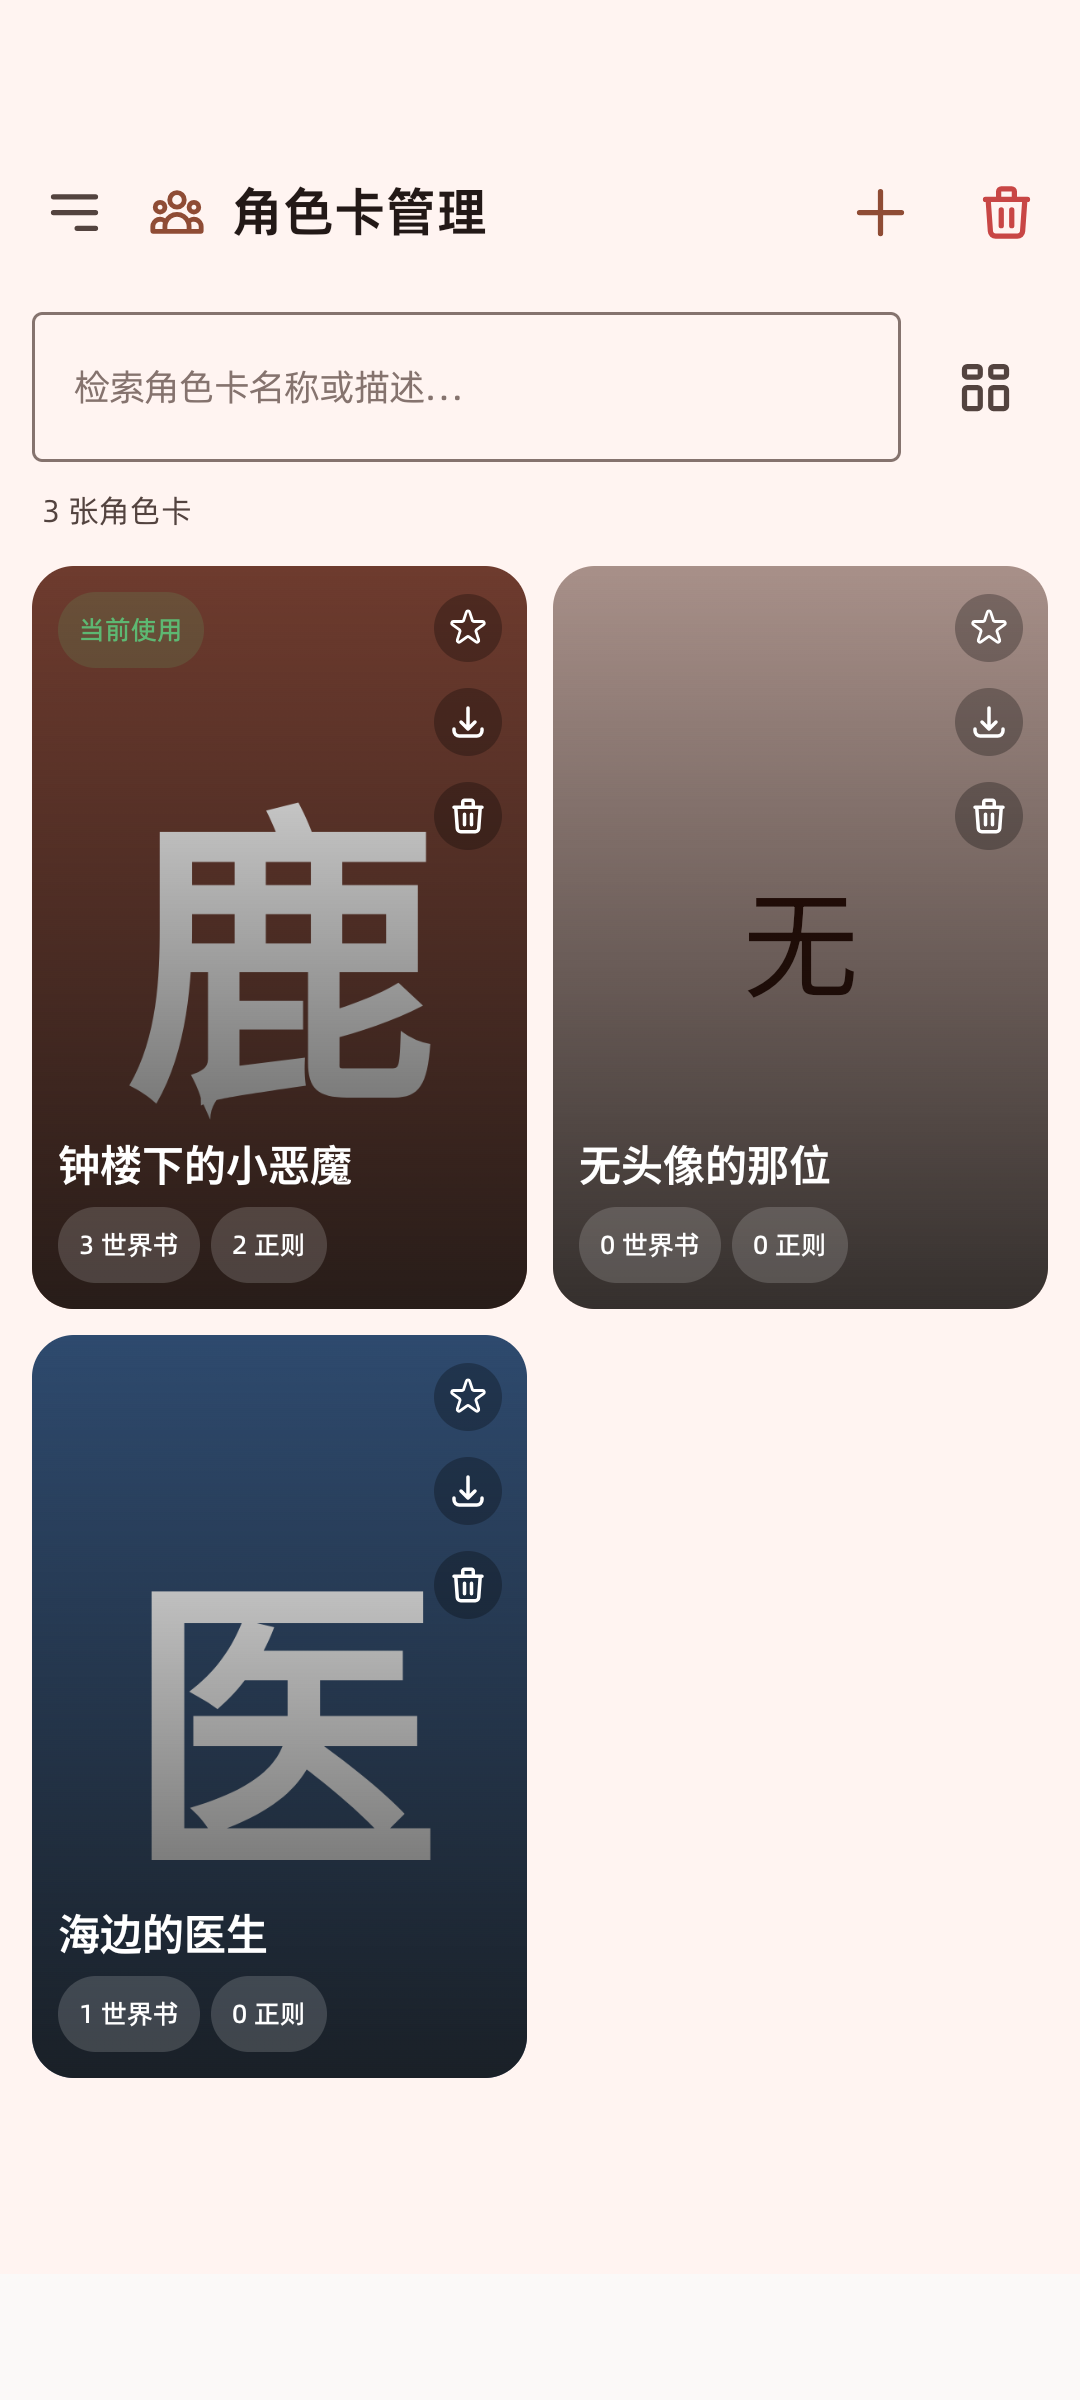
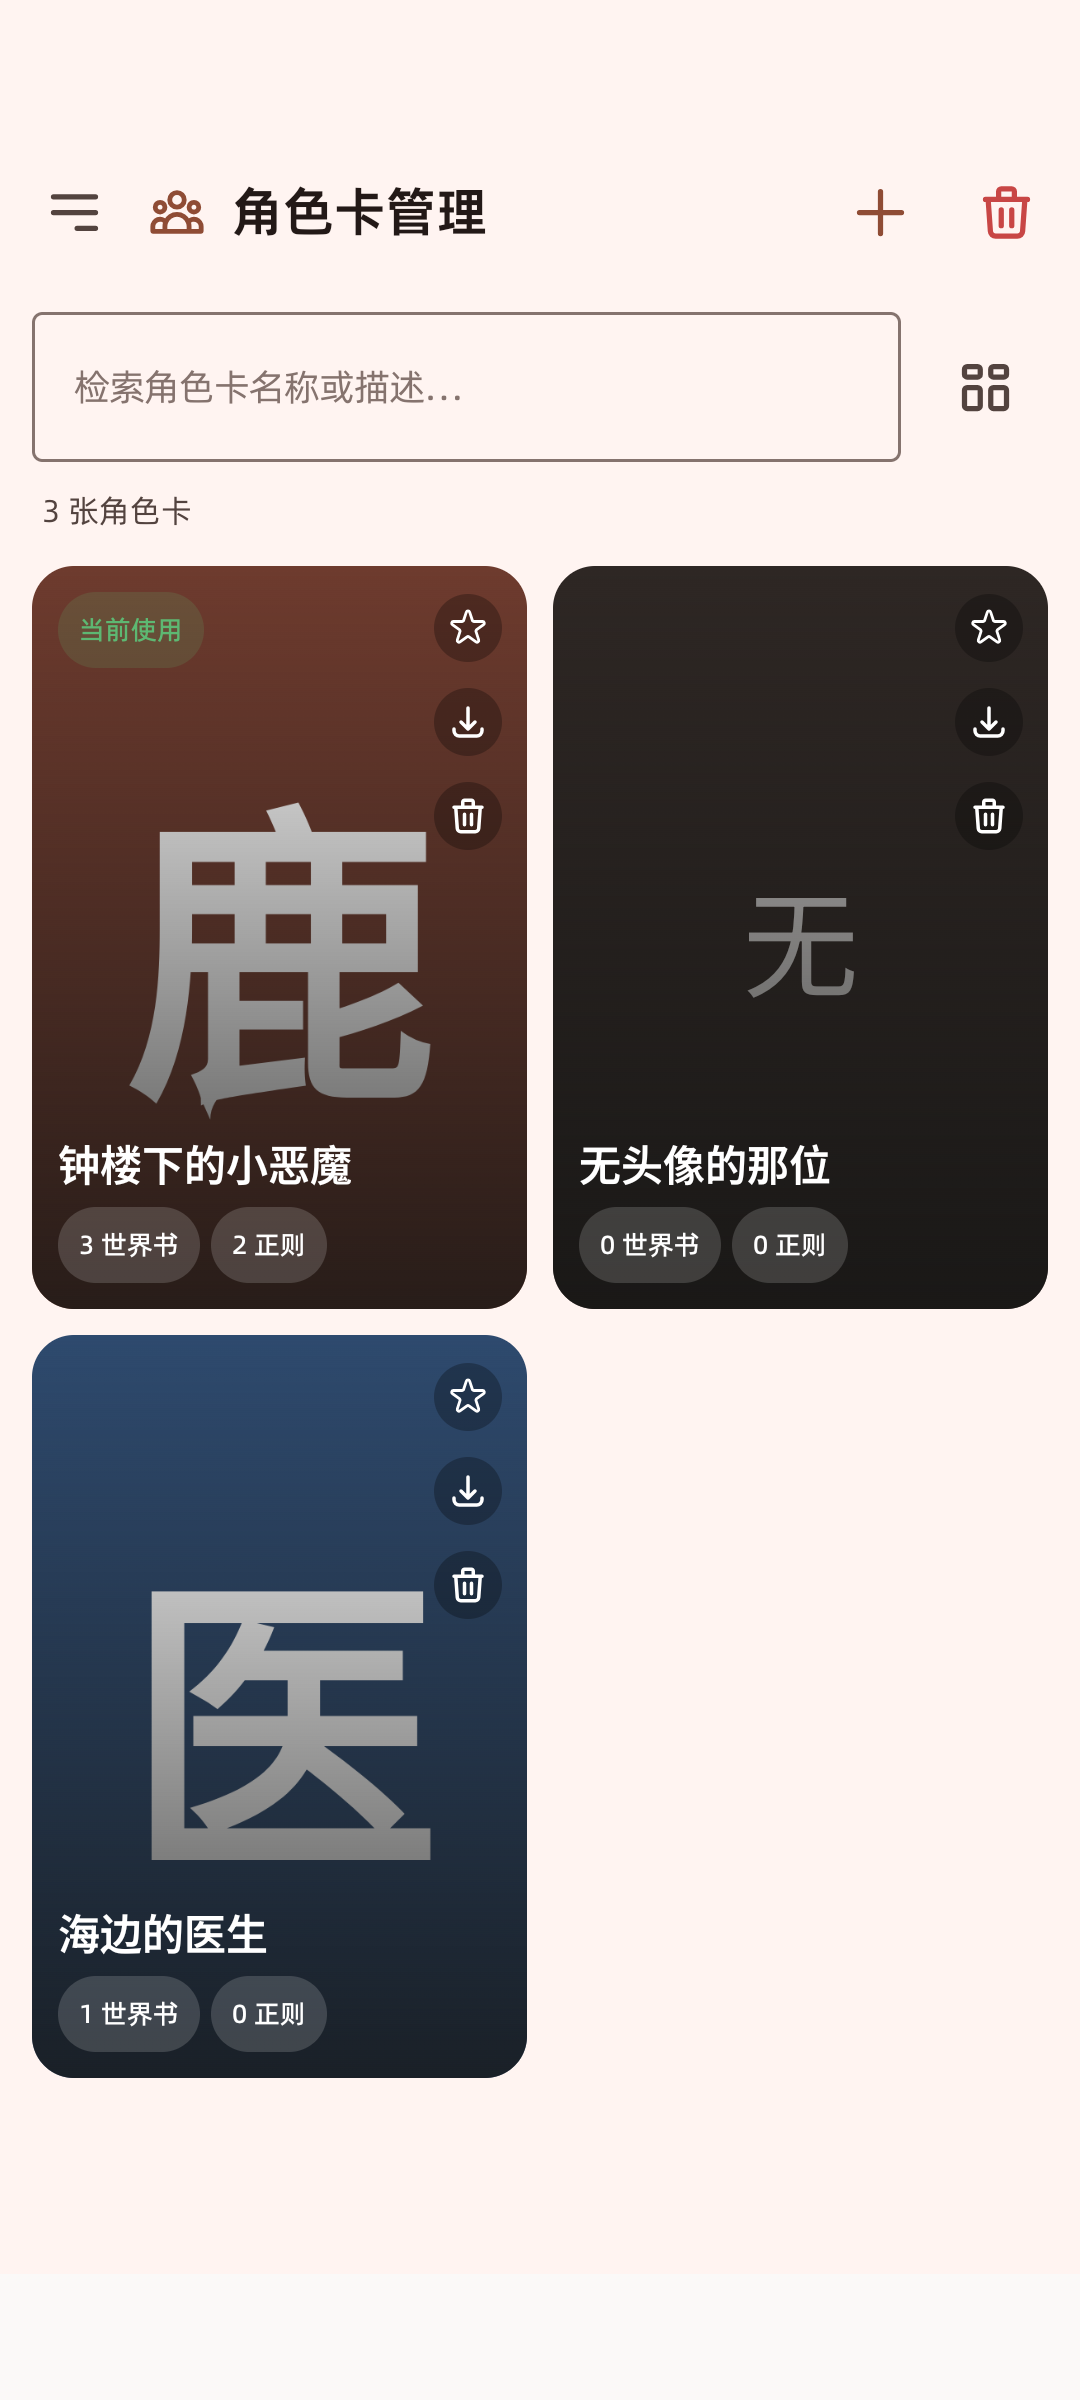
fix(ui): 清掉最后一处「图标占位」+ 角色卡降级底色按主题修正（含暗色留证）
- 删除 StaticPages 的 HeaderAction（不带点击的图标占位）——它已是全仓库最后一处，
  改完后「画出来但没接线」的控件在页面层清零（记忆/用量/角色三页的假件在前面三个 commit 已撤）。
- SessionsPage 修正一处被误合并的行（fontSize / color 挤到同一行）。
- 角色卡页降级底色改版：`primaryContainer` 在亮色主题是浅粉（白字看不见），
  第一版补 34% 黑纱在暗色主题下反而更脏；最终改用固定深暖中性色 #2E2724 + 72% 白首字
  ——深底浅字在亮/暗两套主题下表现一致（DESIGN-compose §34.5 记录了两版的过程）。
- 新增暗色留证 2 张（角色卡 77 / 用量 78）并逐张 read_image 审查：
  曲线分类色在暗色画布上仍可辨；卡片白字仍可读。

门禁：checkChat 全量 108 条仪器化 / 0 失败（5m16s），JVM 全量绿。

Changed region(s): [[0.4889, 0.2188, 0.9778, 0.5625]]

diff --git a/app/src/main/assets/ext/luzzy-changelog.js b/app/src/main/assets/ext/luzzy-changelog.js
@@ -417,6 +417,24 @@
     粒度切换真的换桶（24 → 7 → 4）、清空先验确认框拦住再验真清库；
   - **视觉留证**：新增 \`testing/Capture.kt\`（MediaStore 落 \`/sdcard/Download/luzzy-captures/\`，
     记忆页与用量页共用）与 \`UsageVisualCaptureTest\`，截图 4 张逐张 \`read_image\` 审查。
+- **角色卡页重建（v3.2，2026-09-15）**：同一条用户指令的第三页。旧版真源 = 上游
+  \`rp-hub-reference/index.html\` 的管理视图与 \`ui-components.js\` 的 \`CharacterCard\`，
+  设计落档 \`DESIGN-compose.md\` §34：
+  - **修掉三处硬伤**：① 每张卡都用**同一张固定立绘** \`vanio_card\` 当卡面、真头像缩成 26dp 小圆
+    （十张卡长得一模一样）→ 卡面 = **这张卡自己的头像**（铺满 + 自下而上黑渐变），无图或解码失败
+    回落首字 monogram；② 卡右上「导出 / 删除」是**不带点击的图标** → 真按钮（收藏 / 导出 / 删除）；
+    ③ 卡片**点了没反应** → 点卡 = 切当前角色并回到对话页；
+  - **新增 \`chat/CharacterCards.kt\`**：payload 派生（世界书 / 正则计数、收藏、描述）+ 搜索匹配 +
+    排序 + 收藏写回，9 条 JVM 单测；
+  - **\`LuzzyStore.deleteCharacter\` 级联删除**（角色 + 全部作用域的消息与两种记忆 + 分支，一个事务）——
+    只删角色行会留下永远读不到的孤儿行，且不报错；
+  - **\`TransferStore.exportCharacter\`** 单卡导出（与全量导出同格式、同 uuid，导回来是覆盖而非复制）；
+  - **\`AvatarLoader\` 解码分档**（卡面 512px / 列表小头像 192px）且**缓存键含目标尺寸**；
+  - **新增 4 枚图标**（Heroicons v1：view-grid / view-boards / star / check，MIT，同既有来源纪律）；
+  - **新增仪器化用例 5 条**：卡面用真图 + 计数徽标来自 payload、搜索按名称或描述真过滤、
+    收藏真写进 payload、点卡真切当前角色、删除走确认框并**级联**清掉会话 / 分支 / 记忆；
+  - **截图审查抓出并修**：无头像那张卡的白字对比度不够（monogram 底是浅色）→ 降级路径加 34% 黑纱；
+  - **如实登记未做**：角色卡编辑器、叠卡翻牌动画——**不放点了没反应的按钮**。
 
 **修复**
 - **上游式「整键优先」会丢掉整张角色卡**（迁移器实现时发现并修）：上游 \`dbGetWithLegacy\` 的

diff --git a/app/src/main/java/com/luzzymeow/luzzyrp/ui/pages/characters/CharactersPage.kt b/app/src/main/java/com/luzzymeow/luzzyrp/ui/pages/characters/CharactersPage.kt
@@ -450,21 +450,22 @@ private fun CharacterCover(card: CharacterCards.Row) {
         // 降级：首字 monogram。**这条路径必须真的走得到**——夹具里 2/3 的头像是 SVG
         // （BitmapFactory 解不了），所以它不是「理论上存在的兜底」。
         //
-        // 底色上再压一层黑纱：卡面上的名字是**白字**，而 monogram 底色是浅色（primaryContainer）。
-        // 没有这层纱时「无头像的那位」会被压在浅粉底上，白字几乎看不清
-        // （截图审查实测到：三张卡里唯独这一张对比度不够）。
+        // 底色用**固定的深暖中性色**而不是主题 role，理由有二：
+        // 1. 卡面名字与动作图标都是**白字**，底色必须恒为深色——用 `primaryContainer` 时
+        //    亮色主题是浅粉（白字看不见）、暗色主题是深棕（与真图卡糊成一片），两头都不对；
+        // 2. 深色底 + 浅色首字在亮/暗两套主题下**表现一致**，不需要按主题再分支。
+        // （第一版在浅底上补了一层 34% 黑纱，暗色下反而更脏——截图实测后改成这个方案。）
         Box(
-            Modifier.fillMaxSize().background(MaterialTheme.colorScheme.primaryContainer),
+            Modifier.fillMaxSize().background(Color(0xFF2E2724)),
             contentAlignment = Alignment.Center,
         ) {
             Text(
                 text = card.monogram,
                 fontFamily = LuzzyFonts.Lora,
                 fontSize = 44.sp,
-                color = MaterialTheme.colorScheme.onPrimaryContainer,
+                color = Color.White.copy(alpha = 0.72f),
             )
         }
-        Box(Modifier.fillMaxSize().background(Color.Black.copy(alpha = 0.34f)))
     }
 }
 

diff --git a/app/src/androidTest/java/com/luzzymeow/luzzyrp/ui/pages/CharactersPageTest.kt b/app/src/androidTest/java/com/luzzymeow/luzzyrp/ui/pages/CharactersPageTest.kt
@@ -256,4 +256,24 @@ class CharactersPageTest {
         compose.waitForIdle()
         Capture.shot(context, compose, "76-characters-light-batch", stamp)
     }
+
+    /**
+     * **暗色留证**（卡片上是白字，暗色下必须仍然可读）。
+     *
+     * 卡面自带黑渐变，所以名字读得清不是自动成立的——它是设计的一部分，
+     * 得在暗色主题下真的看一眼（§31 那次就是「白字压在浅色带上」被截图抓出来的）。
+     */
+    @Test
+    fun 暗色下的角色卡留证() {
+        seedCharacter("c1", "钟楼下的小恶魔", writeAvatar("d1", 0xFF6E3B2E.toInt(), "鹿"), worldInfo = 3, regex = 2)
+        seedCharacter("c2", "无头像的那位", null, worldInfo = 0, regex = 0)
+        runBlocking { store().putString(LuzzyStore.KEY_ACTIVE_CHARACTER, "c1") }
+        compose.setContent {
+            LuzzyTheme(darkTheme = true) {
+                CharactersPage(onOpenDrawer = {}, pageData = PageDataSource(store()), onOpenChat = {})
+            }
+        }
+        Await.text(compose, "钟楼下的小恶魔", 8_000, substring = true)
+        Capture.shot(context, compose, "77-characters-dark-grid", stamp)
+    }
 }

diff --git a/app/src/androidTest/java/com/luzzymeow/luzzyrp/ui/pages/UsageVisualCaptureTest.kt b/app/src/androidTest/java/com/luzzymeow/luzzyrp/ui/pages/UsageVisualCaptureTest.kt
@@ -115,4 +115,18 @@ class UsageVisualCaptureTest {
         compose.waitForIdle()
         Capture.shot(context, compose, "73-usage-light-models", stamp)
     }
+
+    /** **暗色留证**：折线是分类数据色，暗色下必须仍然可辨（背景变了，线不能糊成一团）。 */
+    @Test
+    fun 暗色下的用量页留证() {
+        compose.setContent {
+            LuzzyTheme(darkTheme = true) {
+                UsagePage(onOpenDrawer = {}, pageData = PageDataSource(fixture.store))
+            }
+        }
+        Await.text(compose, "24 格", 8_000, substring = true)
+        compose.onNodeWithTag("usage_list").performScrollToNode(hasText("用量趋势", substring = true))
+        compose.waitForIdle()
+        Capture.shot(context, compose, "78-usage-dark-chart", stamp)
+    }
 }

diff --git a/app/src/main/java/com/luzzymeow/luzzyrp/ui/pages/StaticPages.kt b/app/src/main/java/com/luzzymeow/luzzyrp/ui/pages/StaticPages.kt
@@ -90,17 +90,6 @@ import kotlin.math.roundToInt
  * 每个页面各写一份必然出现「改一处忘一处」。本文件的私有副本已删除。
  */
 
-/** 页头右侧动作钮（图标占位）。 */
-@Composable
-private fun HeaderAction(iconRes: Int, desc: String, tint: Color = MaterialTheme.colorScheme.primary) {
-    Icon(
-        painter = painterResource(iconRes),
-        contentDescription = desc,
-        tint = tint,
-        modifier = Modifier.size(20.dp).padding(1.dp),
-    )
-}
-
 // ───────────────────────── 世界书页 ─────────────────────────
 //
 // 2026-09-13（W2）**已迁出**：真页面在 `ui/pages/world/WorldInfoPage.kt`（真数据 + 编辑器）。
